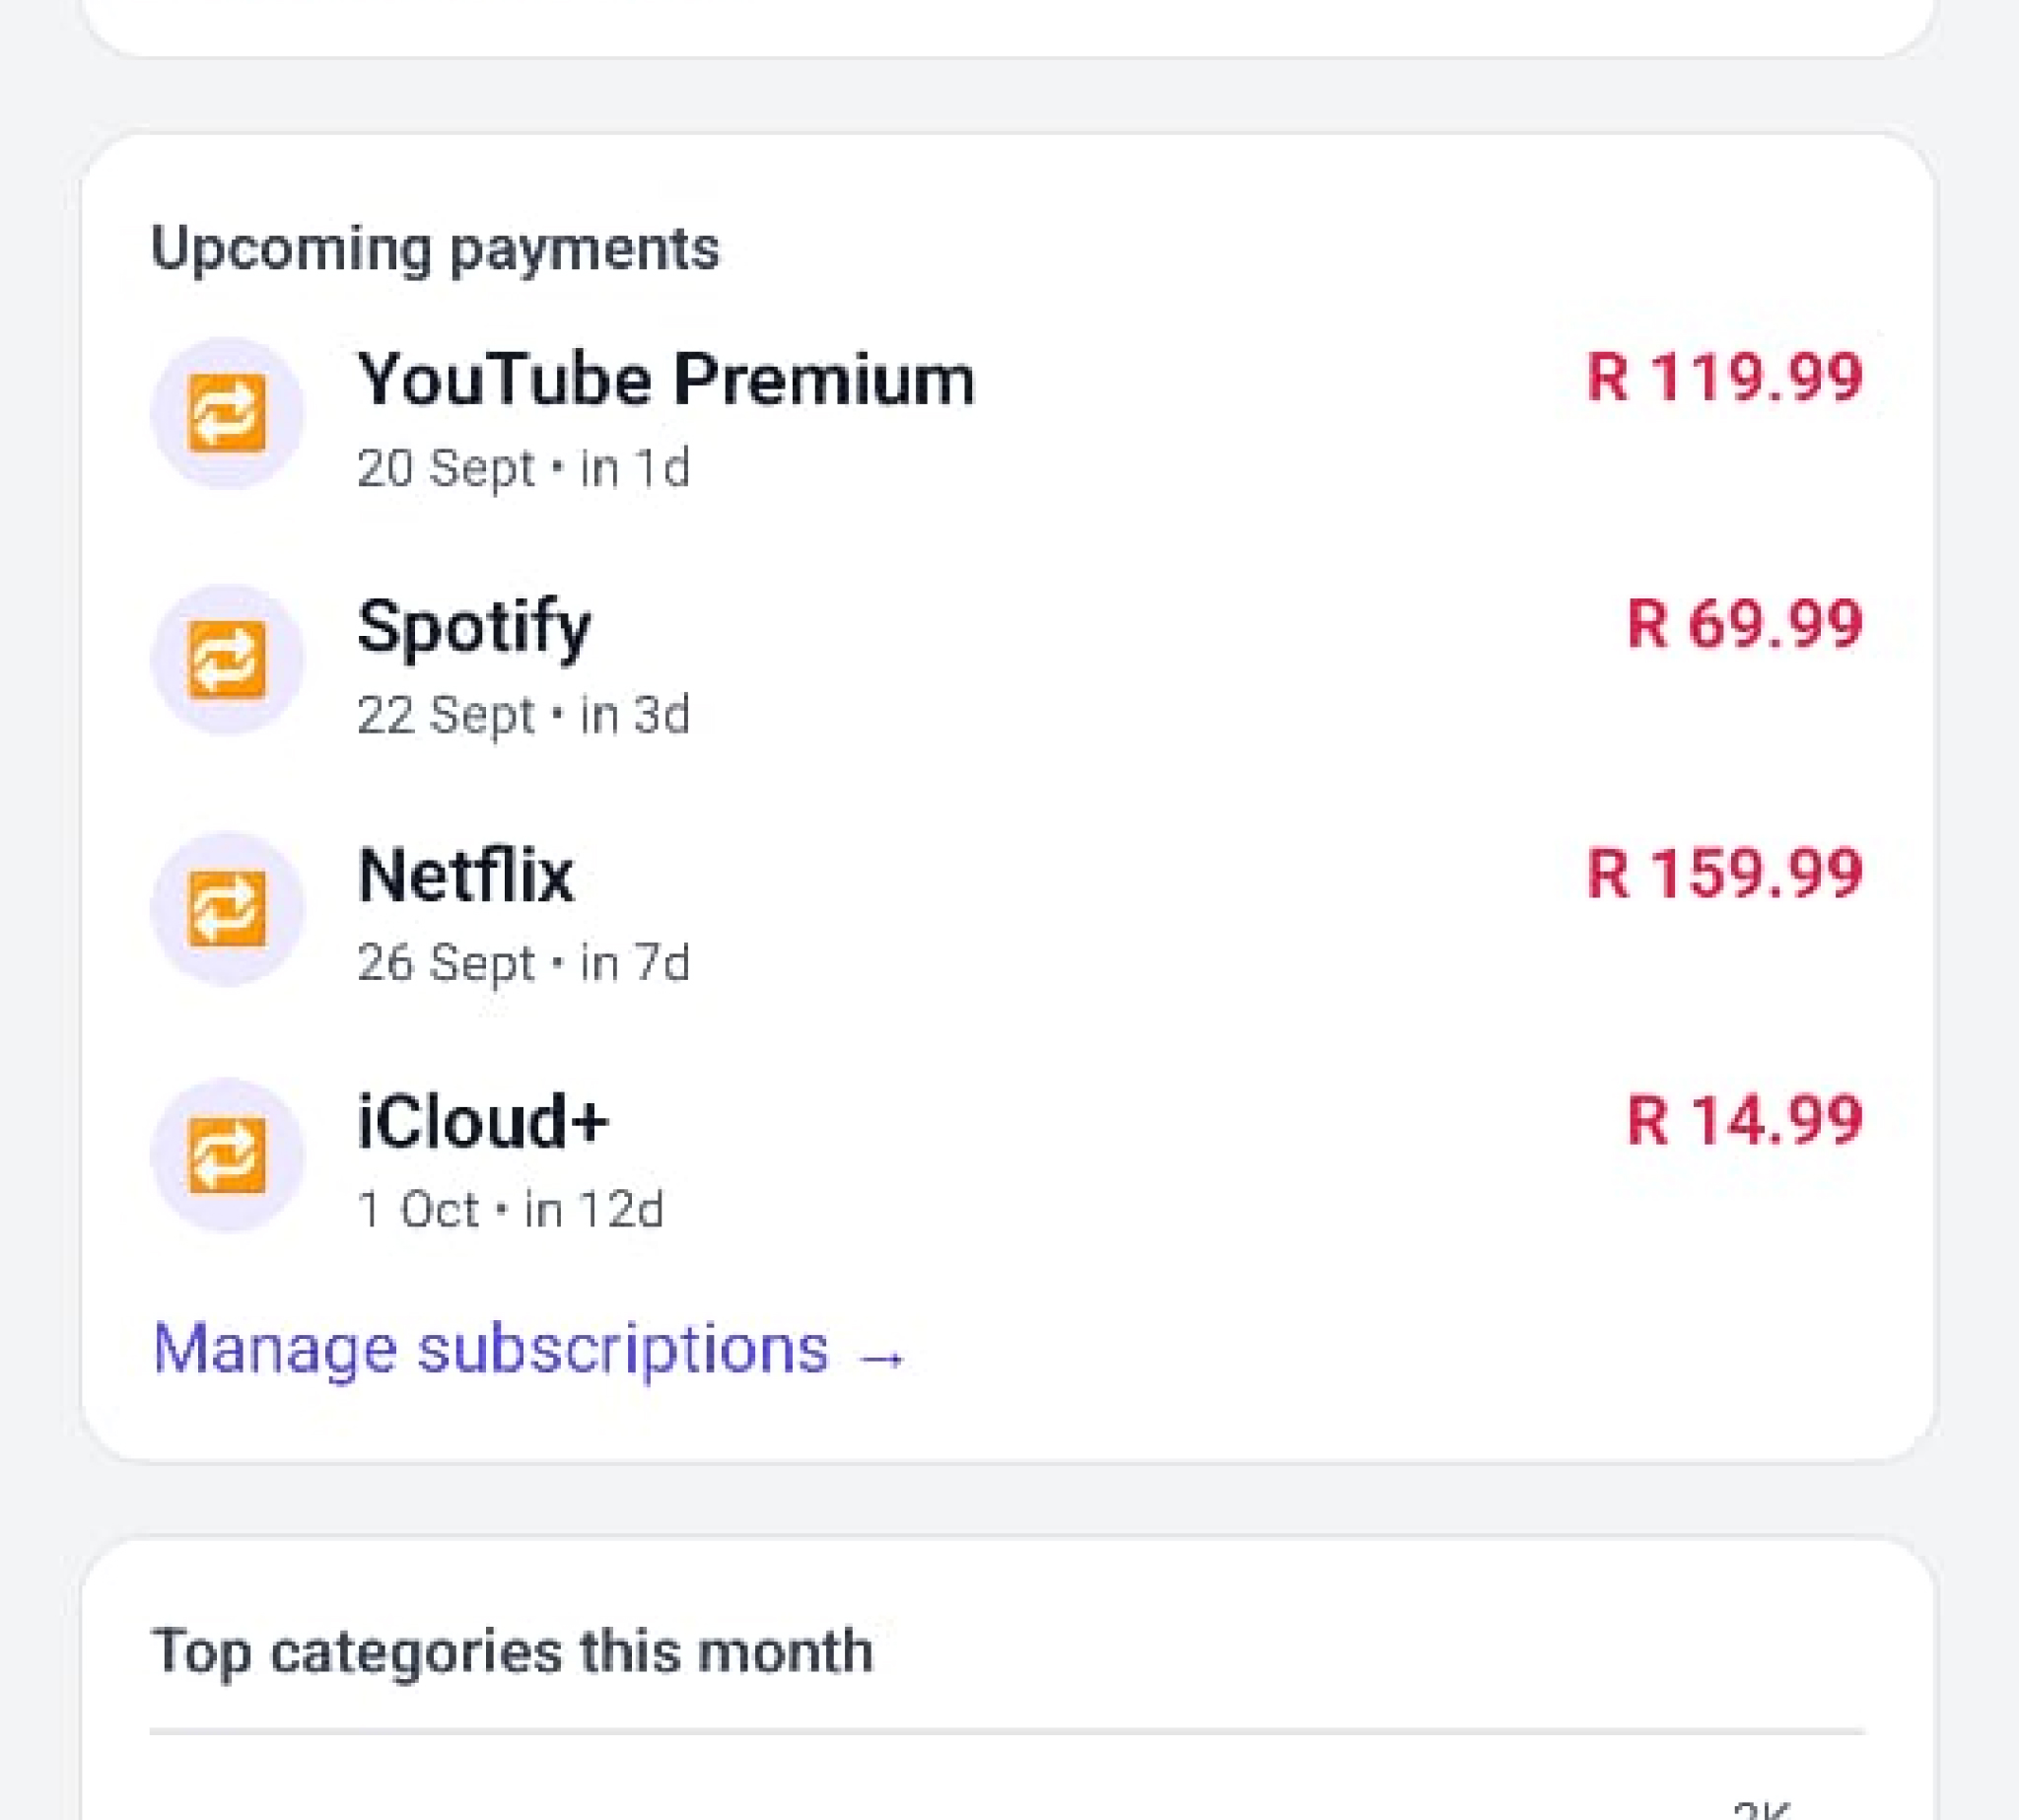
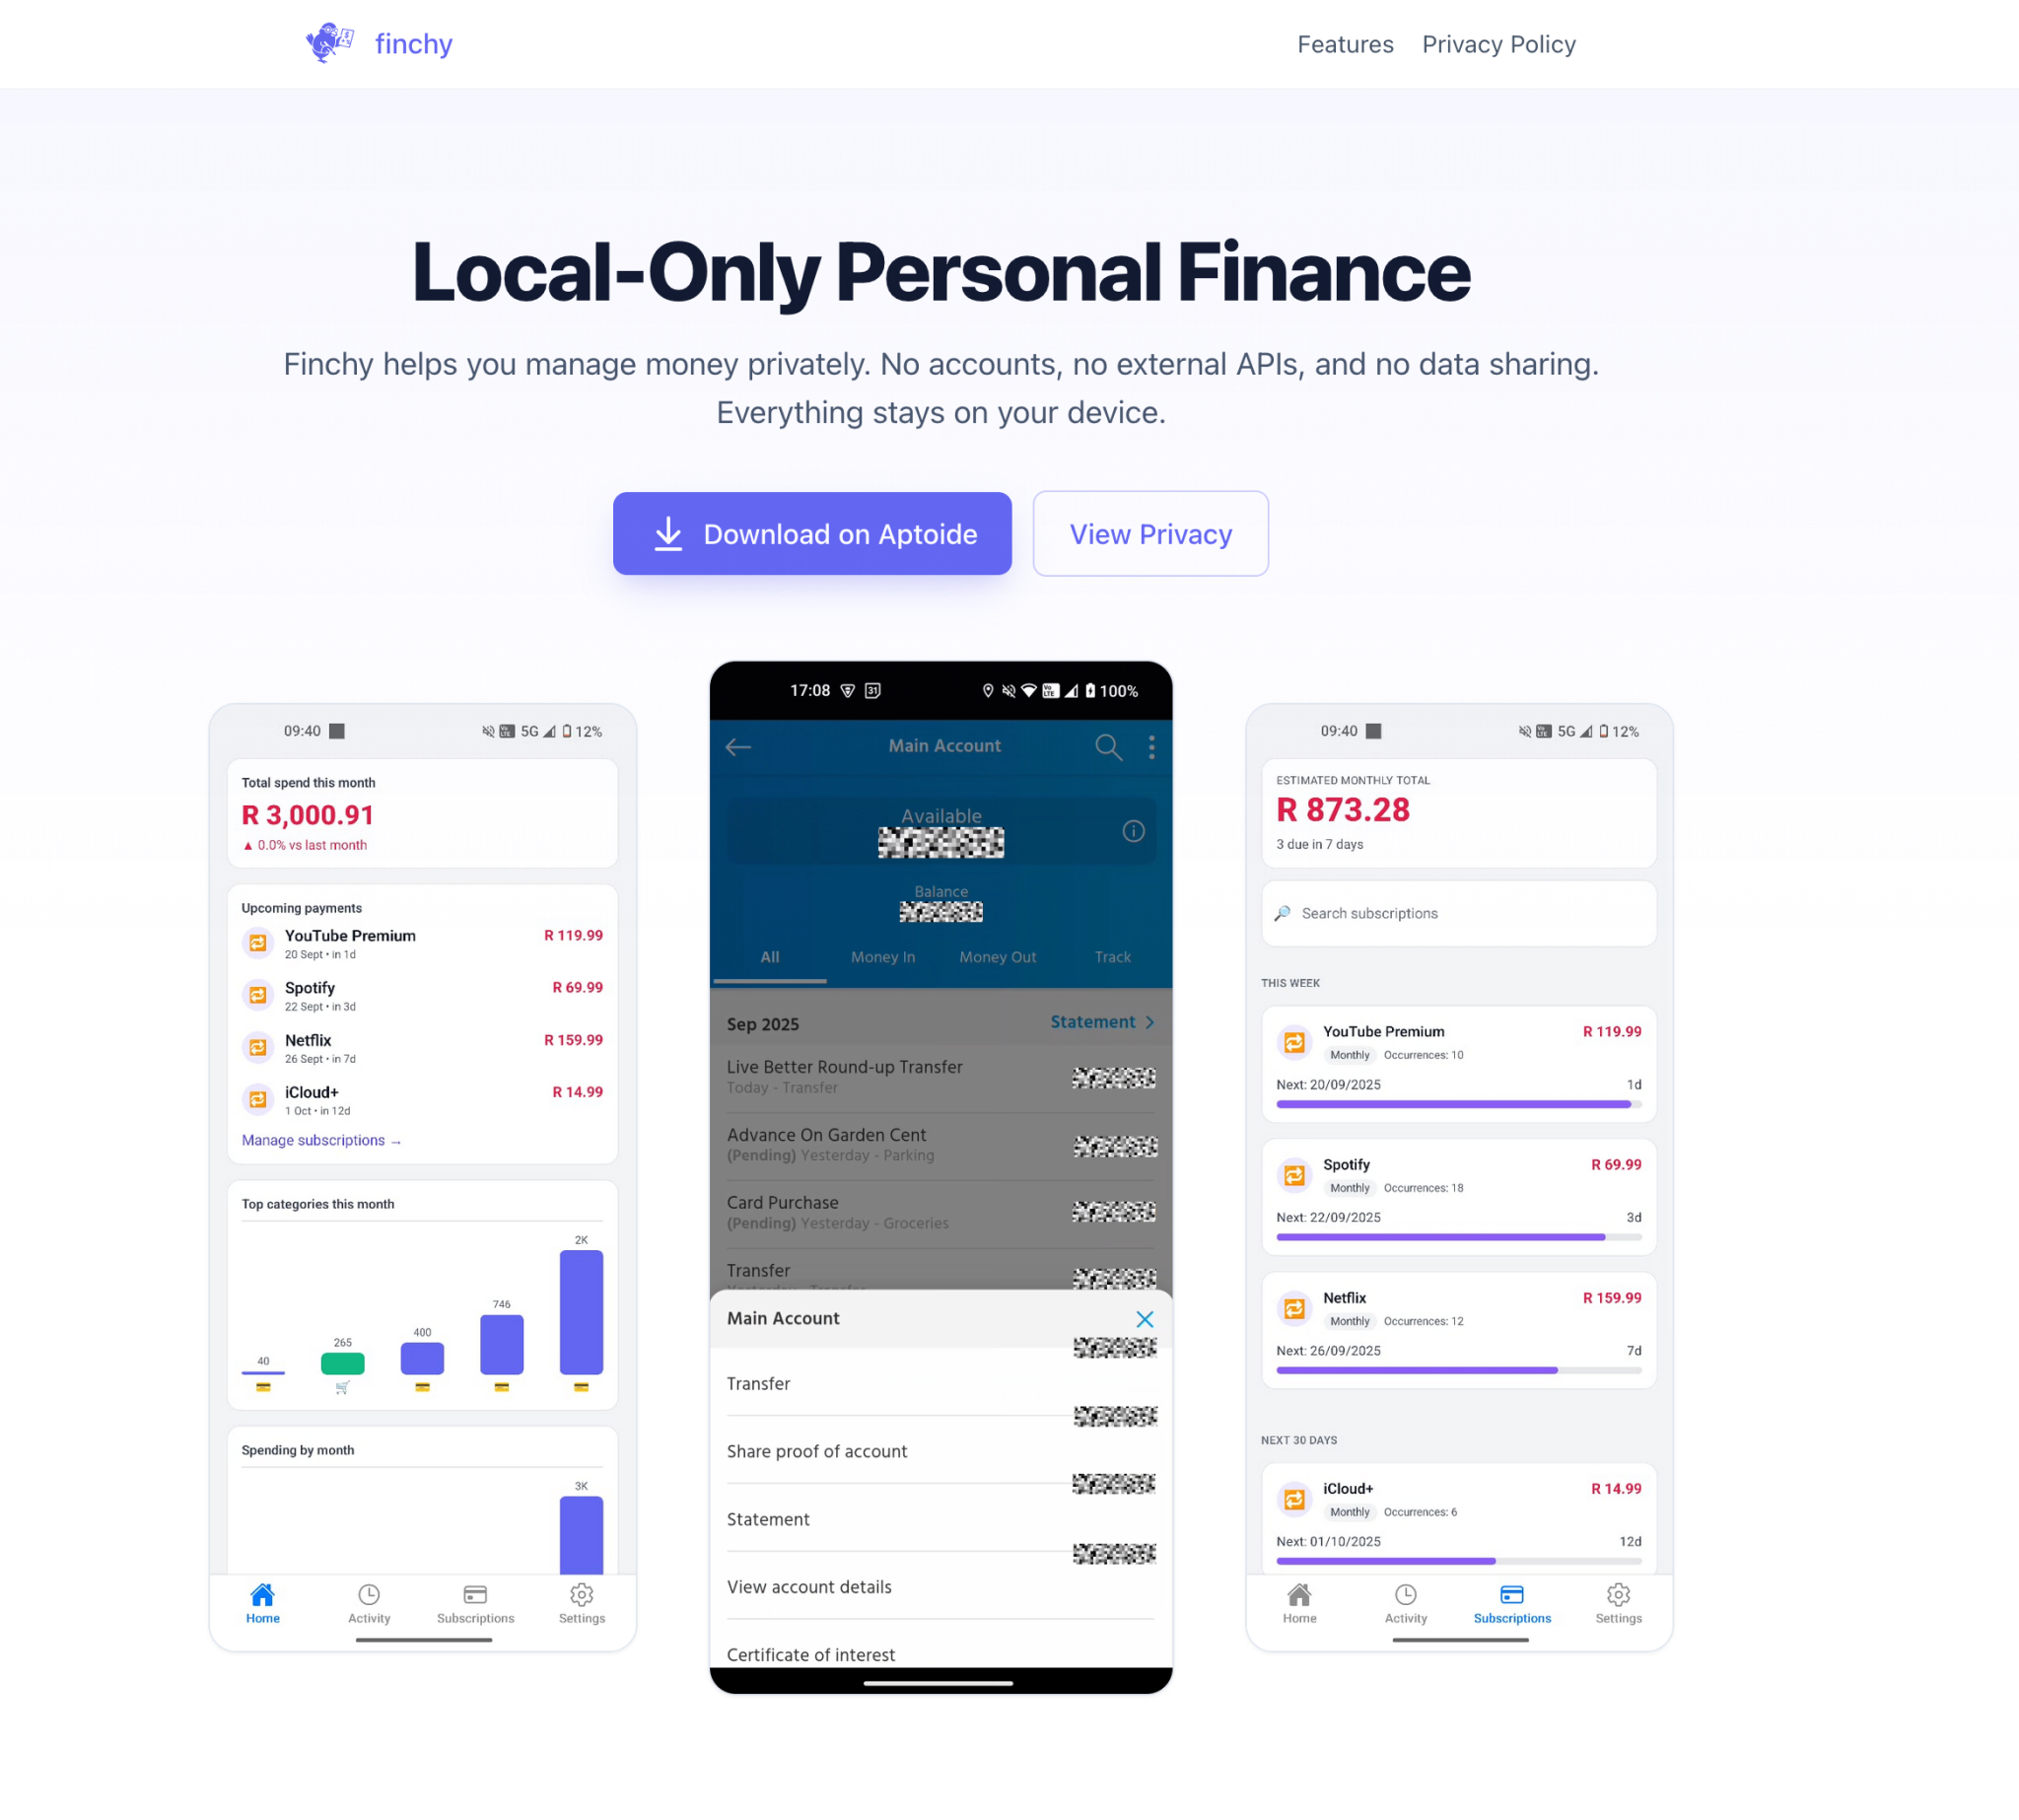
chore: generalised cleanup, image fixes

diff --git a/src/components/work/workPreviewCard.tsx b/src/components/work/workPreviewCard.tsx
@@ -9,27 +9,24 @@ interface WorkPreviewCardProps {
 }
 
 export function WorkPreviewCard({ item }: WorkPreviewCardProps) {
-  const blurDataURL = item.src.blurDataURL ?? undefined;
-  const placeholder = blurDataURL ? "blur" : "empty";
-
   return (
-    <div className="pointer-events-none flex w-full flex-col gap-3 overflow-hidden rounded-xl bg-white p-4 shadow-2xl ring-1 ring-black/5">
-      <div className="relative h-56 w-full overflow-hidden rounded-lg bg-neutral-100">
+    <div className="pointer-events-none flex w-full flex-col gap-3 overflow-hidden rounded-xl bg-white p-2 shadow-2xl ring-1 ring-black/5">
+      <div className={"relative h-64 w-full overflow-hidden rounded-lg"}>
         <Image
           src={item.src}
           alt={item.alt}
-          fill
-          priority
-          placeholder={placeholder}
-          blurDataURL={blurDataURL}
-          sizes="(min-width: 768px) 320px, 90vw"
-          className="object-cover"
+          fill={true}
+          priority={true}
+          sizes={"50vw"}
+          placeholder={"blur"}
+          className={"w-full bg-gray-200 object-cover"}
         />
       </div>
 
       <div className="flex items-center justify-between gap-3 text-sm">
         <p className="font-medium text-neutral-900">{item.title}</p>
-        <span className="flex-shrink-0 rounded-full bg-neutral-100 px-2 text-xs tracking-wide text-neutral-600">
+
+        <span className="flex-shrink-0 rounded-full bg-neutral-100 p-1 px-2 text-xs tracking-wide text-neutral-600">
           {item.tag}
         </span>
       </div>

diff --git a/src/components/workCard.tsx b/src/components/workCard.tsx
@@ -13,11 +13,6 @@ interface WorkCardProps {
 
 export const WorkCard: FC<WorkCardProps> = (props) => {
   const { title, link, tag, src, alt, internal } = props;
-  const blurDataURL =
-    typeof src === "object" && src !== null && "blurDataURL" in src
-      ? (src as StaticImageData).blurDataURL
-      : undefined;
-  const placeholder = blurDataURL ? "blur" : "empty";
 
   return (
     <Link
@@ -25,7 +20,7 @@ export const WorkCard: FC<WorkCardProps> = (props) => {
       href={link}
       target={internal ? "_self" : "_blank"}
       className={`
-        flex min-w-[180px] grow flex-col gap-2 rounded-xl bg-white p-2 shadow-sm 
+        flex min-w-[185px] flex-col gap-2 rounded-xl bg-white p-2 shadow-sm 
         transition duration-150 ease-in-out hover:shadow-md
       `}
     >
@@ -36,8 +31,7 @@ export const WorkCard: FC<WorkCardProps> = (props) => {
           fill={true}
           priority={true}
           sizes={"50vw"}
-          placeholder={placeholder}
-          blurDataURL={blurDataURL}
+          placeholder={"blur"}
           className={"w-full bg-gray-200 object-cover"}
         />
       </div>

diff --git a/src/lib/workData.ts b/src/lib/workData.ts
@@ -1,5 +1,5 @@
 import { StaticImageData } from "next/image";
-import trinity from "/public/trinity.jpg";
+import trinity from "/public/trinitySmall.jpg";
 import portal from "/public/projects/portal.png";
 import giggity from "/public/giggity2.png";
 import specno from "/public/Spec.png";
@@ -69,7 +69,7 @@ export const workData = (): WorkCardData[] => [
 
   {
     title: "ootify.me",
-    link: "https://ootify.me",
+    link: "https://ootify.vercel.app/",
     tag: "web app",
     type: "personal",
     src: ootify,
@@ -85,7 +85,6 @@ export const workData = (): WorkCardData[] => [
     type: "personal",
     src: olarm,
     alt: "bloggin website blog cover",
-    favourite: true,
     description: "plugin bridging olarm system to homekit and google-home",
     year: "2024",
   },

diff --git a/src/components/writing/writingCard.tsx b/src/components/writing/writingCard.tsx
@@ -16,7 +16,7 @@ export const WritingCard: FC<WritingCardProps> = ({ item, isReview }) => {
       prefetch={true}
       href={`/${isReview ? "reviews" : "writing"}/${spaceToHyphen(item.title)}/${item.id}`}
       className="
-        flex w-full flex-col gap-4 overflow-clip rounded-xl bg-white p-4
+        flex w-full flex-col gap-4 overflow-clip rounded-xl bg-white p-2
         shadow-sm transition duration-300 ease-in-out hover:shadow-md
       "
     >
@@ -30,7 +30,7 @@ export const WritingCard: FC<WritingCardProps> = ({ item, isReview }) => {
         "
       />
 
-      <div className={"flex flex-col gap-1"}>
+      <div className={"flex flex-col gap-1 px-1 !pt-0 pb-2"}>
         <div className={"flex flex-row items-center justify-between"}>
           <p className={"line-clamp-1 font-medium"}>{item.title}</p>
 

diff --git a/src/components/work/workPreviewLink.tsx b/src/components/work/workPreviewLink.tsx
@@ -2,9 +2,10 @@
 
 import { HoverPreviewPortal } from "@/components/preview/hoverPreviewPortal";
 import { SmallLink } from "@/components/smallLink";
-import { WorkPreviewCard } from "@/components/work/workPreviewCard";
 import { useHoverPreview } from "@/hooks/useHoverPreview";
 import { type WorkCardData } from "@/lib/workData";
+import { WorkCard } from "@/components/workCard";
+import { WorkPreviewCard } from "@/components/work/workPreviewCard";
 
 type WorkPreviewLinkProps = {
   item: WorkCardData;